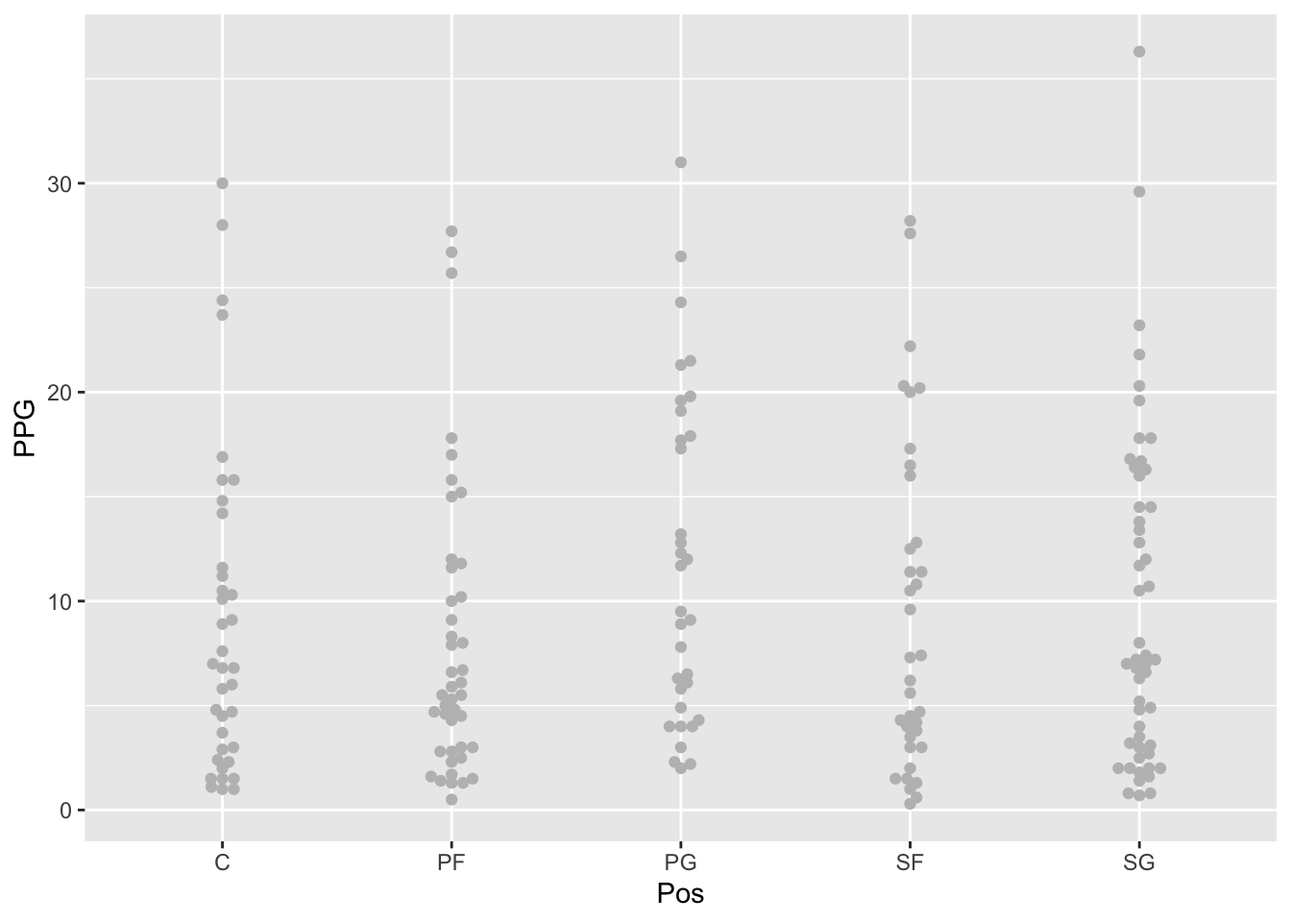
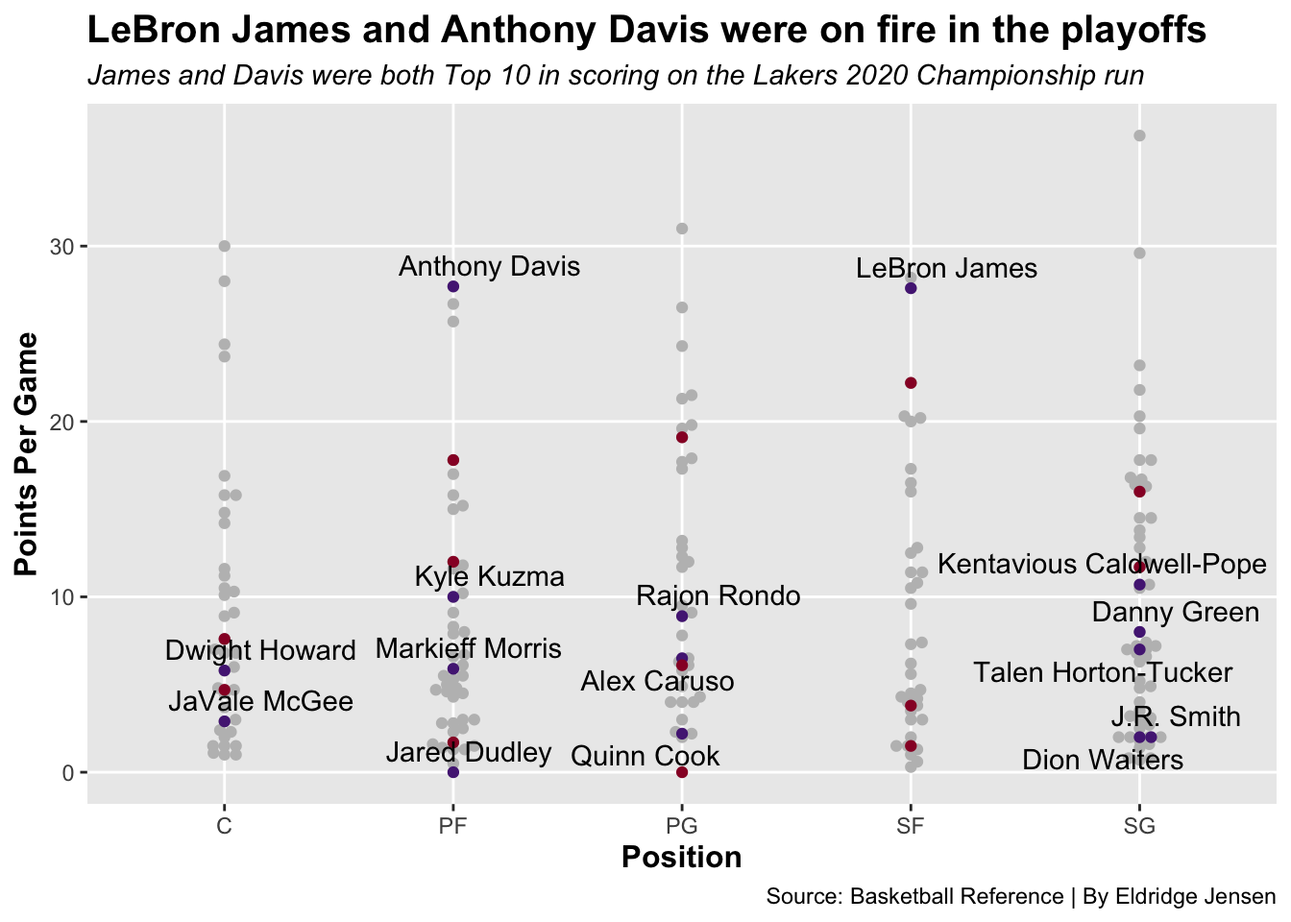
New changes

diff --git a/posts/lakers-2020-championship/index.html b/posts/lakers-2020-championship/index.html
@@ -329,112 +329,72 @@ pre > code.sourceCode > span > a:first-child::before { text-decoration: underlin
 <div class="cell">
 <details>
 <summary>Code</summary>
-<div class="sourceCode cell-code" id="cb12"><pre class="sourceCode r code-with-copy"><code class="sourceCode r"><span id="cb12-1"><a href="#cb12-1" aria-hidden="true" tabindex="-1"></a><span class="fu">ggplot</span>() <span class="sc">+</span></span>
-<span id="cb12-2"><a href="#cb12-2" aria-hidden="true" tabindex="-1"></a>  <span class="fu">geom_beeswarm</span>(<span class="at">data =</span> activeplayers,</span>
-<span id="cb12-3"><a href="#cb12-3" aria-hidden="true" tabindex="-1"></a>                <span class="fu">aes</span>(<span class="at">x =</span> Pos, <span class="at">y =</span> PPG),</span>
-<span id="cb12-4"><a href="#cb12-4" aria-hidden="true" tabindex="-1"></a>                <span class="at">color =</span> <span class="st">"grey"</span>)</span></code><button title="Copy to Clipboard" class="code-copy-button"><i class="bi"></i></button></pre></div>
+<div class="sourceCode cell-code" id="cb12"><pre class="sourceCode r code-with-copy"><code class="sourceCode r"><span id="cb12-1"><a href="#cb12-1" aria-hidden="true" tabindex="-1"></a>la <span class="ot">&lt;-</span> players <span class="sc">%&gt;%</span></span>
+<span id="cb12-2"><a href="#cb12-2" aria-hidden="true" tabindex="-1"></a>  <span class="fu">filter</span>(Tm <span class="sc">==</span> <span class="st">"LAL"</span>)</span>
+<span id="cb12-3"><a href="#cb12-3" aria-hidden="true" tabindex="-1"></a></span>
+<span id="cb12-4"><a href="#cb12-4" aria-hidden="true" tabindex="-1"></a>mi <span class="ot">&lt;-</span> players <span class="sc">%&gt;%</span></span>
+<span id="cb12-5"><a href="#cb12-5" aria-hidden="true" tabindex="-1"></a>  <span class="fu">filter</span>(Tm <span class="sc">==</span> <span class="st">"MIA"</span>)</span>
+<span id="cb12-6"><a href="#cb12-6" aria-hidden="true" tabindex="-1"></a></span>
+<span id="cb12-7"><a href="#cb12-7" aria-hidden="true" tabindex="-1"></a><span class="fu">ggplot</span>() <span class="sc">+</span></span>
+<span id="cb12-8"><a href="#cb12-8" aria-hidden="true" tabindex="-1"></a>  <span class="fu">geom_beeswarm</span>(</span>
+<span id="cb12-9"><a href="#cb12-9" aria-hidden="true" tabindex="-1"></a>    <span class="at">data =</span> activeplayers,</span>
+<span id="cb12-10"><a href="#cb12-10" aria-hidden="true" tabindex="-1"></a>    <span class="fu">aes</span>(<span class="at">x =</span> Pos, <span class="at">y =</span> PPG),</span>
+<span id="cb12-11"><a href="#cb12-11" aria-hidden="true" tabindex="-1"></a>    <span class="at">color =</span> <span class="st">"grey"</span></span>
+<span id="cb12-12"><a href="#cb12-12" aria-hidden="true" tabindex="-1"></a>  ) <span class="sc">+</span></span>
+<span id="cb12-13"><a href="#cb12-13" aria-hidden="true" tabindex="-1"></a>  <span class="fu">geom_beeswarm</span>(</span>
+<span id="cb12-14"><a href="#cb12-14" aria-hidden="true" tabindex="-1"></a>    <span class="at">data =</span> la,</span>
+<span id="cb12-15"><a href="#cb12-15" aria-hidden="true" tabindex="-1"></a>    <span class="fu">aes</span>(<span class="at">x =</span> Pos, <span class="at">y =</span> PPG),</span>
+<span id="cb12-16"><a href="#cb12-16" aria-hidden="true" tabindex="-1"></a>    <span class="at">color =</span> <span class="st">"#552583"</span></span>
+<span id="cb12-17"><a href="#cb12-17" aria-hidden="true" tabindex="-1"></a>  ) <span class="sc">+</span></span>
+<span id="cb12-18"><a href="#cb12-18" aria-hidden="true" tabindex="-1"></a>  <span class="fu">geom_beeswarm</span>(</span>
+<span id="cb12-19"><a href="#cb12-19" aria-hidden="true" tabindex="-1"></a>    <span class="at">data =</span> mi,</span>
+<span id="cb12-20"><a href="#cb12-20" aria-hidden="true" tabindex="-1"></a>    <span class="fu">aes</span>(<span class="at">x =</span> Pos, <span class="at">y =</span> PPG),</span>
+<span id="cb12-21"><a href="#cb12-21" aria-hidden="true" tabindex="-1"></a>    <span class="at">color =</span> <span class="st">"#98002E"</span></span>
+<span id="cb12-22"><a href="#cb12-22" aria-hidden="true" tabindex="-1"></a>  ) <span class="sc">+</span></span>
+<span id="cb12-23"><a href="#cb12-23" aria-hidden="true" tabindex="-1"></a>  <span class="fu">geom_text_repel</span>(</span>
+<span id="cb12-24"><a href="#cb12-24" aria-hidden="true" tabindex="-1"></a>    <span class="at">data =</span> la,</span>
+<span id="cb12-25"><a href="#cb12-25" aria-hidden="true" tabindex="-1"></a>    <span class="fu">aes</span>(<span class="at">x =</span> Pos, <span class="at">y =</span> PPG, <span class="at">label =</span> Player),</span>
+<span id="cb12-26"><a href="#cb12-26" aria-hidden="true" tabindex="-1"></a>    <span class="at">color =</span> <span class="st">"black"</span></span>
+<span id="cb12-27"><a href="#cb12-27" aria-hidden="true" tabindex="-1"></a>  ) <span class="sc">+</span></span>
+<span id="cb12-28"><a href="#cb12-28" aria-hidden="true" tabindex="-1"></a>  <span class="fu">labs</span>(<span class="at">x =</span> <span class="st">"Position"</span>,</span>
+<span id="cb12-29"><a href="#cb12-29" aria-hidden="true" tabindex="-1"></a>       <span class="at">y =</span> <span class="st">"Points Per Game"</span>,</span>
+<span id="cb12-30"><a href="#cb12-30" aria-hidden="true" tabindex="-1"></a>       <span class="at">title =</span> <span class="st">"LeBron James and Anthony Davis were on fire in the playoffs"</span>,</span>
+<span id="cb12-31"><a href="#cb12-31" aria-hidden="true" tabindex="-1"></a>       <span class="at">subtitle =</span> <span class="st">"James and Davis were both Top 10 in scoring on the Lakers 2020 Championship run"</span>,</span>
+<span id="cb12-32"><a href="#cb12-32" aria-hidden="true" tabindex="-1"></a>       <span class="at">caption =</span> <span class="st">"Source: Basketball Reference | By Eldridge Jensen"</span></span>
+<span id="cb12-33"><a href="#cb12-33" aria-hidden="true" tabindex="-1"></a>       ) <span class="sc">+</span></span>
+<span id="cb12-34"><a href="#cb12-34" aria-hidden="true" tabindex="-1"></a>  <span class="fu">theme_grey</span>() <span class="sc">+</span></span>
+<span id="cb12-35"><a href="#cb12-35" aria-hidden="true" tabindex="-1"></a>  <span class="fu">theme</span>(</span>
+<span id="cb12-36"><a href="#cb12-36" aria-hidden="true" tabindex="-1"></a>    <span class="at">plot.title =</span> <span class="fu">element_text</span>(<span class="at">size =</span> <span class="dv">15</span>, <span class="at">face =</span> <span class="st">"bold"</span>),</span>
+<span id="cb12-37"><a href="#cb12-37" aria-hidden="true" tabindex="-1"></a>    <span class="at">axis.title =</span> <span class="fu">element_text</span>(<span class="at">size =</span> <span class="dv">12</span>, <span class="at">face =</span> <span class="st">"bold"</span>),</span>
+<span id="cb12-38"><a href="#cb12-38" aria-hidden="true" tabindex="-1"></a>    <span class="at">plot.subtitle =</span> <span class="fu">element_text</span>(<span class="at">size =</span> <span class="dv">11</span>, <span class="at">face =</span> <span class="st">"italic"</span>),</span>
+<span id="cb12-39"><a href="#cb12-39" aria-hidden="true" tabindex="-1"></a>    <span class="at">panel.grid.minor =</span> <span class="fu">element_blank</span>()</span>
+<span id="cb12-40"><a href="#cb12-40" aria-hidden="true" tabindex="-1"></a>    )</span></code><button title="Copy to Clipboard" class="code-copy-button"><i class="bi"></i></button></pre></div>
 </details>
 <div class="cell-output-display">
 <p><img src="index_files/figure-html/unnamed-chunk-9-1.png" class="img-fluid" width="672"></p>
-</div>
-</div>
-<div class="cell">
-<details>
-<summary>Code</summary>
-<div class="sourceCode cell-code" id="cb13"><pre class="sourceCode r code-with-copy"><code class="sourceCode r"><span id="cb13-1"><a href="#cb13-1" aria-hidden="true" tabindex="-1"></a>la <span class="ot">&lt;-</span> players <span class="sc">%&gt;%</span></span>
-<span id="cb13-2"><a href="#cb13-2" aria-hidden="true" tabindex="-1"></a>  <span class="fu">filter</span>(Tm <span class="sc">==</span> <span class="st">"LAL"</span>)</span>
-<span id="cb13-3"><a href="#cb13-3" aria-hidden="true" tabindex="-1"></a></span>
-<span id="cb13-4"><a href="#cb13-4" aria-hidden="true" tabindex="-1"></a>mi <span class="ot">&lt;-</span> players <span class="sc">%&gt;%</span></span>
-<span id="cb13-5"><a href="#cb13-5" aria-hidden="true" tabindex="-1"></a>  <span class="fu">filter</span>(Tm <span class="sc">==</span> <span class="st">"MIA"</span>)</span></code><button title="Copy to Clipboard" class="code-copy-button"><i class="bi"></i></button></pre></div>
-</details>
-</div>
-<div class="cell">
-<details>
-<summary>Code</summary>
-<div class="sourceCode cell-code" id="cb14"><pre class="sourceCode r code-with-copy"><code class="sourceCode r"><span id="cb14-1"><a href="#cb14-1" aria-hidden="true" tabindex="-1"></a><span class="fu">ggplot</span>() <span class="sc">+</span></span>
-<span id="cb14-2"><a href="#cb14-2" aria-hidden="true" tabindex="-1"></a>  <span class="fu">geom_beeswarm</span>(<span class="at">data =</span> activeplayers,</span>
-<span id="cb14-3"><a href="#cb14-3" aria-hidden="true" tabindex="-1"></a>                <span class="fu">aes</span>(<span class="at">x =</span> Pos, <span class="at">y =</span> PPG),</span>
-<span id="cb14-4"><a href="#cb14-4" aria-hidden="true" tabindex="-1"></a>                <span class="at">color =</span> <span class="st">"grey"</span></span>
-<span id="cb14-5"><a href="#cb14-5" aria-hidden="true" tabindex="-1"></a>  ) <span class="sc">+</span></span>
-<span id="cb14-6"><a href="#cb14-6" aria-hidden="true" tabindex="-1"></a>  <span class="fu">geom_beeswarm</span>(</span>
-<span id="cb14-7"><a href="#cb14-7" aria-hidden="true" tabindex="-1"></a>    <span class="at">data =</span> la,</span>
-<span id="cb14-8"><a href="#cb14-8" aria-hidden="true" tabindex="-1"></a>    <span class="fu">aes</span>(<span class="at">x =</span> Pos, <span class="at">y =</span> PPG),</span>
-<span id="cb14-9"><a href="#cb14-9" aria-hidden="true" tabindex="-1"></a>    <span class="at">color =</span> <span class="st">"purple"</span></span>
-<span id="cb14-10"><a href="#cb14-10" aria-hidden="true" tabindex="-1"></a>  )  <span class="sc">+</span></span>
-<span id="cb14-11"><a href="#cb14-11" aria-hidden="true" tabindex="-1"></a>  </span>
-<span id="cb14-12"><a href="#cb14-12" aria-hidden="true" tabindex="-1"></a>  <span class="fu">geom_beeswarm</span>(</span>
-<span id="cb14-13"><a href="#cb14-13" aria-hidden="true" tabindex="-1"></a>    <span class="at">data =</span> mi,</span>
-<span id="cb14-14"><a href="#cb14-14" aria-hidden="true" tabindex="-1"></a>    <span class="fu">aes</span>(<span class="at">x =</span> Pos, <span class="at">y =</span> PPG),</span>
-<span id="cb14-15"><a href="#cb14-15" aria-hidden="true" tabindex="-1"></a>    <span class="at">color =</span> <span class="st">"red"</span></span>
-<span id="cb14-16"><a href="#cb14-16" aria-hidden="true" tabindex="-1"></a>  )</span></code><button title="Copy to Clipboard" class="code-copy-button"><i class="bi"></i></button></pre></div>
-</details>
-<div class="cell-output-display">
-<p><img src="index_files/figure-html/unnamed-chunk-11-1.png" class="img-fluid" width="672"></p>
-</div>
-</div>
-<div class="cell">
-<details>
-<summary>Code</summary>
-<div class="sourceCode cell-code" id="cb15"><pre class="sourceCode r code-with-copy"><code class="sourceCode r"><span id="cb15-1"><a href="#cb15-1" aria-hidden="true" tabindex="-1"></a><span class="fu">ggplot</span>() <span class="sc">+</span></span>
-<span id="cb15-2"><a href="#cb15-2" aria-hidden="true" tabindex="-1"></a>  <span class="fu">geom_beeswarm</span>(</span>
-<span id="cb15-3"><a href="#cb15-3" aria-hidden="true" tabindex="-1"></a>    <span class="at">data =</span> activeplayers,</span>
-<span id="cb15-4"><a href="#cb15-4" aria-hidden="true" tabindex="-1"></a>    <span class="fu">aes</span>(<span class="at">x =</span> Pos, <span class="at">y =</span> PPG),</span>
-<span id="cb15-5"><a href="#cb15-5" aria-hidden="true" tabindex="-1"></a>    <span class="at">color =</span> <span class="st">"grey"</span></span>
-<span id="cb15-6"><a href="#cb15-6" aria-hidden="true" tabindex="-1"></a>  ) <span class="sc">+</span></span>
-<span id="cb15-7"><a href="#cb15-7" aria-hidden="true" tabindex="-1"></a>  <span class="fu">geom_beeswarm</span>(</span>
-<span id="cb15-8"><a href="#cb15-8" aria-hidden="true" tabindex="-1"></a>    <span class="at">data =</span> la,</span>
-<span id="cb15-9"><a href="#cb15-9" aria-hidden="true" tabindex="-1"></a>    <span class="fu">aes</span>(<span class="at">x =</span> Pos, <span class="at">y =</span> PPG),</span>
-<span id="cb15-10"><a href="#cb15-10" aria-hidden="true" tabindex="-1"></a>    <span class="at">color =</span> <span class="st">"#552583"</span></span>
-<span id="cb15-11"><a href="#cb15-11" aria-hidden="true" tabindex="-1"></a>  ) <span class="sc">+</span></span>
-<span id="cb15-12"><a href="#cb15-12" aria-hidden="true" tabindex="-1"></a>  <span class="fu">geom_beeswarm</span>(</span>
-<span id="cb15-13"><a href="#cb15-13" aria-hidden="true" tabindex="-1"></a>    <span class="at">data =</span> mi,</span>
-<span id="cb15-14"><a href="#cb15-14" aria-hidden="true" tabindex="-1"></a>    <span class="fu">aes</span>(<span class="at">x =</span> Pos, <span class="at">y =</span> PPG),</span>
-<span id="cb15-15"><a href="#cb15-15" aria-hidden="true" tabindex="-1"></a>    <span class="at">color =</span> <span class="st">"#98002E"</span></span>
-<span id="cb15-16"><a href="#cb15-16" aria-hidden="true" tabindex="-1"></a>  ) <span class="sc">+</span></span>
-<span id="cb15-17"><a href="#cb15-17" aria-hidden="true" tabindex="-1"></a>  <span class="fu">geom_text_repel</span>(</span>
-<span id="cb15-18"><a href="#cb15-18" aria-hidden="true" tabindex="-1"></a>    <span class="at">data =</span> la,</span>
-<span id="cb15-19"><a href="#cb15-19" aria-hidden="true" tabindex="-1"></a>    <span class="fu">aes</span>(<span class="at">x =</span> Pos, <span class="at">y =</span> PPG, <span class="at">label =</span> Player),</span>
-<span id="cb15-20"><a href="#cb15-20" aria-hidden="true" tabindex="-1"></a>    <span class="at">color =</span> <span class="st">"black"</span></span>
-<span id="cb15-21"><a href="#cb15-21" aria-hidden="true" tabindex="-1"></a>  ) <span class="sc">+</span></span>
-<span id="cb15-22"><a href="#cb15-22" aria-hidden="true" tabindex="-1"></a>  <span class="fu">labs</span>(<span class="at">x =</span> <span class="st">"Position"</span>,</span>
-<span id="cb15-23"><a href="#cb15-23" aria-hidden="true" tabindex="-1"></a>       <span class="at">y =</span> <span class="st">"Points Per Game"</span>,</span>
-<span id="cb15-24"><a href="#cb15-24" aria-hidden="true" tabindex="-1"></a>       <span class="at">title =</span> <span class="st">"LeBron James and Anthony Davis were on fire in the playoffs"</span>,</span>
-<span id="cb15-25"><a href="#cb15-25" aria-hidden="true" tabindex="-1"></a>       <span class="at">subtitle =</span> <span class="st">"James and Davis were both Top 10 in scoring on the Lakers 2020 Championship run"</span>,</span>
-<span id="cb15-26"><a href="#cb15-26" aria-hidden="true" tabindex="-1"></a>       <span class="at">caption =</span> <span class="st">"Source: Basketball Reference | By Eldridge Jensen"</span></span>
-<span id="cb15-27"><a href="#cb15-27" aria-hidden="true" tabindex="-1"></a>       ) <span class="sc">+</span></span>
-<span id="cb15-28"><a href="#cb15-28" aria-hidden="true" tabindex="-1"></a>  <span class="fu">theme_grey</span>() <span class="sc">+</span></span>
-<span id="cb15-29"><a href="#cb15-29" aria-hidden="true" tabindex="-1"></a>  <span class="fu">theme</span>(</span>
-<span id="cb15-30"><a href="#cb15-30" aria-hidden="true" tabindex="-1"></a>    <span class="at">plot.title =</span> <span class="fu">element_text</span>(<span class="at">size =</span> <span class="dv">15</span>, <span class="at">face =</span> <span class="st">"bold"</span>),</span>
-<span id="cb15-31"><a href="#cb15-31" aria-hidden="true" tabindex="-1"></a>    <span class="at">axis.title =</span> <span class="fu">element_text</span>(<span class="at">size =</span> <span class="dv">12</span>, <span class="at">face =</span> <span class="st">"bold"</span>),</span>
-<span id="cb15-32"><a href="#cb15-32" aria-hidden="true" tabindex="-1"></a>    <span class="at">plot.subtitle =</span> <span class="fu">element_text</span>(<span class="at">size =</span> <span class="dv">11</span>, <span class="at">face =</span> <span class="st">"italic"</span>),</span>
-<span id="cb15-33"><a href="#cb15-33" aria-hidden="true" tabindex="-1"></a>    <span class="at">panel.grid.minor =</span> <span class="fu">element_blank</span>()</span>
-<span id="cb15-34"><a href="#cb15-34" aria-hidden="true" tabindex="-1"></a>    )</span></code><button title="Copy to Clipboard" class="code-copy-button"><i class="bi"></i></button></pre></div>
-</details>
-<div class="cell-output-display">
-<p><img src="index_files/figure-html/unnamed-chunk-12-1.png" class="img-fluid" width="672"></p>
 </div>
 </div>
 <p>In the playoffs, LeBron James and Anthony Davis were the two key players for the Lakers, with each averaging 27 points per game. This dynamic duo was the heart and sole of the team, and it showed, after having a diisaterous season after winning the championship since both players were dealing with injuries.</p>
 <div class="cell">
 <details>
 <summary>Code</summary>
-<div class="sourceCode cell-code" id="cb16"><pre class="sourceCode r code-with-copy"><code class="sourceCode r"><span id="cb16-1"><a href="#cb16-1" aria-hidden="true" tabindex="-1"></a>la <span class="ot">&lt;-</span> <span class="fu">c</span>(<span class="st">"Offensive"</span> <span class="ot">=</span> <span class="fl">10.5</span>, <span class="st">"Defensive"</span> <span class="ot">=</span> <span class="fl">33.5</span>)</span>
-<span id="cb16-2"><a href="#cb16-2" aria-hidden="true" tabindex="-1"></a></span>
-<span id="cb16-3"><a href="#cb16-3" aria-hidden="true" tabindex="-1"></a>nba <span class="ot">&lt;-</span> <span class="fu">c</span>(<span class="st">"Offensive"</span> <span class="ot">=</span> <span class="fl">8.5</span>, <span class="st">"Defensive"</span> <span class="ot">=</span> <span class="fl">34.5</span>)</span></code><button title="Copy to Clipboard" class="code-copy-button"><i class="bi"></i></button></pre></div>
+<div class="sourceCode cell-code" id="cb13"><pre class="sourceCode r code-with-copy"><code class="sourceCode r"><span id="cb13-1"><a href="#cb13-1" aria-hidden="true" tabindex="-1"></a>la <span class="ot">&lt;-</span> <span class="fu">c</span>(<span class="st">"Offensive"</span> <span class="ot">=</span> <span class="fl">10.5</span>, <span class="st">"Defensive"</span> <span class="ot">=</span> <span class="fl">33.5</span>)</span>
+<span id="cb13-2"><a href="#cb13-2" aria-hidden="true" tabindex="-1"></a></span>
+<span id="cb13-3"><a href="#cb13-3" aria-hidden="true" tabindex="-1"></a>nba <span class="ot">&lt;-</span> <span class="fu">c</span>(<span class="st">"Offensive"</span> <span class="ot">=</span> <span class="fl">8.5</span>, <span class="st">"Defensive"</span> <span class="ot">=</span> <span class="fl">34.5</span>)</span></code><button title="Copy to Clipboard" class="code-copy-button"><i class="bi"></i></button></pre></div>
 </details>
 </div>
 <div class="cell">
 <details>
 <summary>Code</summary>
-<div class="sourceCode cell-code" id="cb17"><pre class="sourceCode r code-with-copy"><code class="sourceCode r"><span id="cb17-1"><a href="#cb17-1" aria-hidden="true" tabindex="-1"></a><span class="fu">iron</span>(</span>
-<span id="cb17-2"><a href="#cb17-2" aria-hidden="true" tabindex="-1"></a>  <span class="fu">waffle</span>(la, <span class="at">rows =</span> <span class="dv">3</span>, <span class="at">title=</span><span class="st">"Lakers Average Rebounding Per Game"</span>, <span class="at">xlab=</span><span class="st">"1 Square = 1 Rebound"</span>,</span>
-<span id="cb17-3"><a href="#cb17-3" aria-hidden="true" tabindex="-1"></a>         <span class="at">colors =</span> <span class="fu">c</span>(<span class="st">"#552583"</span>, <span class="st">"#FDB927"</span>)),</span>
-<span id="cb17-4"><a href="#cb17-4" aria-hidden="true" tabindex="-1"></a>  <span class="fu">waffle</span>(nba, <span class="at">rows =</span> <span class="dv">3</span>, <span class="at">title=</span><span class="st">"NBA Average Rebounding Per Game"</span>, <span class="at">xlab=</span><span class="st">"1 Square = 1 Rebound"</span>,</span>
-<span id="cb17-5"><a href="#cb17-5" aria-hidden="true" tabindex="-1"></a>         <span class="at">colors =</span> <span class="fu">c</span>(<span class="st">"red"</span>, <span class="st">"blue"</span>))</span>
-<span id="cb17-6"><a href="#cb17-6" aria-hidden="true" tabindex="-1"></a>) </span></code><button title="Copy to Clipboard" class="code-copy-button"><i class="bi"></i></button></pre></div>
+<div class="sourceCode cell-code" id="cb14"><pre class="sourceCode r code-with-copy"><code class="sourceCode r"><span id="cb14-1"><a href="#cb14-1" aria-hidden="true" tabindex="-1"></a><span class="fu">iron</span>(</span>
+<span id="cb14-2"><a href="#cb14-2" aria-hidden="true" tabindex="-1"></a>  <span class="fu">waffle</span>(la, <span class="at">rows =</span> <span class="dv">3</span>, <span class="at">title=</span><span class="st">"Lakers Average Rebounding Per Game"</span>, <span class="at">xlab=</span><span class="st">"1 Square = 1 Rebound"</span>,</span>
+<span id="cb14-3"><a href="#cb14-3" aria-hidden="true" tabindex="-1"></a>         <span class="at">colors =</span> <span class="fu">c</span>(<span class="st">"#552583"</span>, <span class="st">"#FDB927"</span>)),</span>
+<span id="cb14-4"><a href="#cb14-4" aria-hidden="true" tabindex="-1"></a>  <span class="fu">waffle</span>(nba, <span class="at">rows =</span> <span class="dv">3</span>, <span class="at">title=</span><span class="st">"NBA Average Rebounding Per Game"</span>, <span class="at">xlab=</span><span class="st">"1 Square = 1 Rebound"</span>,</span>
+<span id="cb14-5"><a href="#cb14-5" aria-hidden="true" tabindex="-1"></a>         <span class="at">colors =</span> <span class="fu">c</span>(<span class="st">"red"</span>, <span class="st">"blue"</span>))</span>
+<span id="cb14-6"><a href="#cb14-6" aria-hidden="true" tabindex="-1"></a>) </span></code><button title="Copy to Clipboard" class="code-copy-button"><i class="bi"></i></button></pre></div>
 </details>
 <div class="cell-output-display">
-<p><img src="index_files/figure-html/unnamed-chunk-14-1.png" class="img-fluid" width="672"></p>
+<p><img src="index_files/figure-html/unnamed-chunk-11-1.png" class="img-fluid" width="672"></p>
 </div>
 </div>
 <p>The Lakers were also one of the best rebounding teams in the league this year, averaging 10 offensive rebounds per game which was tied for 4th in the NBA and they were in the top ten in total rebounds. Their ability to get to the loose ball was a key part of their success.</p>

diff --git a/index.html b/index.html
@@ -157,7 +157,7 @@ ul.task-list li input[type="checkbox"] {
 <!-- margin-sidebar -->
     <div id="quarto-margin-sidebar" class="sidebar margin-sidebar">
         
-    <h5 class="quarto-listing-category-title">Categories</h5><div class="quarto-listing-category category-default"><div class="category" data-category="">All <span class="quarto-category-count">(3)</span></div><div class="category" data-category="Finals">Finals <span class="quarto-category-count">(3)</span></div><div class="category" data-category="Lakers">Lakers <span class="quarto-category-count">(3)</span></div><div class="category" data-category="LeBron James">LeBron James <span class="quarto-category-count">(3)</span></div><div class="category" data-category="NBA">NBA <span class="quarto-category-count">(3)</span></div></div></div>
+    <h5 class="quarto-listing-category-title">Categories</h5><div class="quarto-listing-category category-default"><div class="category" data-category="">All <span class="quarto-category-count">(2)</span></div><div class="category" data-category="Finals">Finals <span class="quarto-category-count">(2)</span></div><div class="category" data-category="Lakers">Lakers <span class="quarto-category-count">(2)</span></div><div class="category" data-category="LeBron James">LeBron James <span class="quarto-category-count">(2)</span></div><div class="category" data-category="NBA">NBA <span class="quarto-category-count">(2)</span></div></div></div>
 <!-- main -->
 <main class="content quarto-banner-title-block column-page-left" id="quarto-document-content">
 
@@ -214,51 +214,7 @@ Eldridge Jensen
 </a>
 </div>
 </div>
-<div class="quarto-post image-right" data-index="1" data-categories="Lakers,LeBron James,NBA,Finals" data-listing-date-sort="1681621200000" data-listing-file-modified-sort="1683512523484" data-listing-date-modified-sort="NaN" data-listing-reading-time-sort="8">
-<div class="thumbnail">
-<p><a href="./posts/lakers-bubble-championship/index.html"> <img src="./posts/lakers-bubble-championship/image.png" class="thumbnail-image"> </a></p>
-</div>
-<div class="body">
-<a href="./posts/lakers-bubble-championship/index.html">
-<h3 class="no-anchor listing-title">
-The Lakers 2020 Championship was one of the hardest to win in recent memory.
-</h3>
-<div class="listing-subtitle">
-
-</div>
-</a>
-<div class="listing-categories">
-<div class="listing-category" onclick="window.quartoListingCategory('Lakers'); return false;">
-Lakers
-</div>
-<div class="listing-category" onclick="window.quartoListingCategory('LeBron James'); return false;">
-LeBron James
-</div>
-<div class="listing-category" onclick="window.quartoListingCategory('NBA'); return false;">
-NBA
-</div>
-<div class="listing-category" onclick="window.quartoListingCategory('Finals'); return false;">
-Finals
-</div>
-</div>
-<a href="./posts/lakers-bubble-championship/index.html">
-<div class="listing-description">
-The Los Angeles Lakers 2020 Championship as an asterix on it in the eyes of many NBA fans, dubbing the title a “Mickey Mouse Ring” or “The Bubble Ring,” which in my opinion…
-</div>
-</a>
-</div>
-<div class="metadata">
-<a href="./posts/lakers-bubble-championship/index.html">
-<div class="listing-date">
-Apr 16, 2023
-</div>
-<div class="listing-author">
-Eldridge Jensen
-</div>
-</a>
-</div>
-</div>
-<div class="quarto-post image-right" data-index="2" data-categories="Lakers,LeBron James,NBA,Finals" data-listing-date-sort="1681621200000" data-listing-file-modified-sort="1683567019373" data-listing-date-modified-sort="NaN" data-listing-reading-time-sort="8">
+<div class="quarto-post image-right" data-index="1" data-categories="Lakers,LeBron James,NBA,Finals" data-listing-date-sort="1681621200000" data-listing-file-modified-sort="1683576452760" data-listing-date-modified-sort="NaN" data-listing-reading-time-sort="7">
 <div class="thumbnail">
 <p><a href="./posts/lakers-2020-championship/index.html"> <img src="./posts/lakers-2020-championship/image.png" class="thumbnail-image"> </a></p>
 </div>
